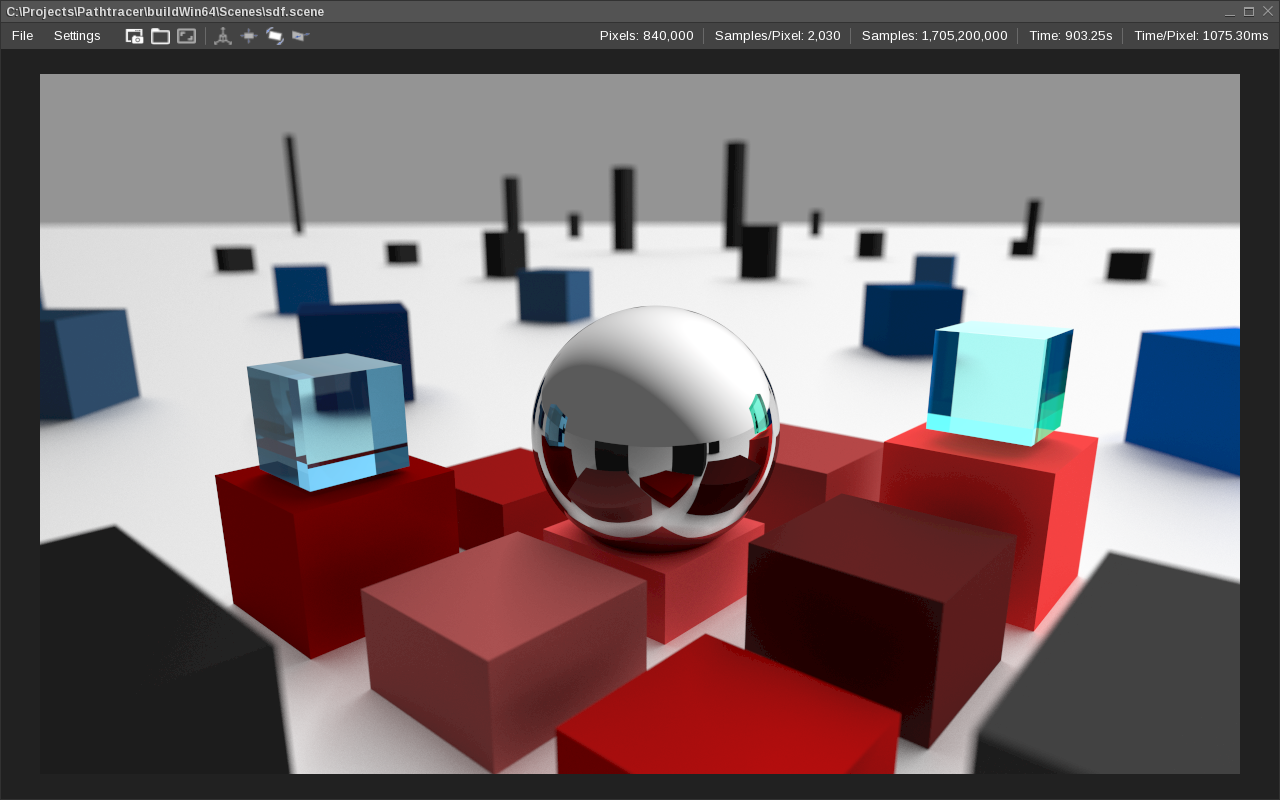
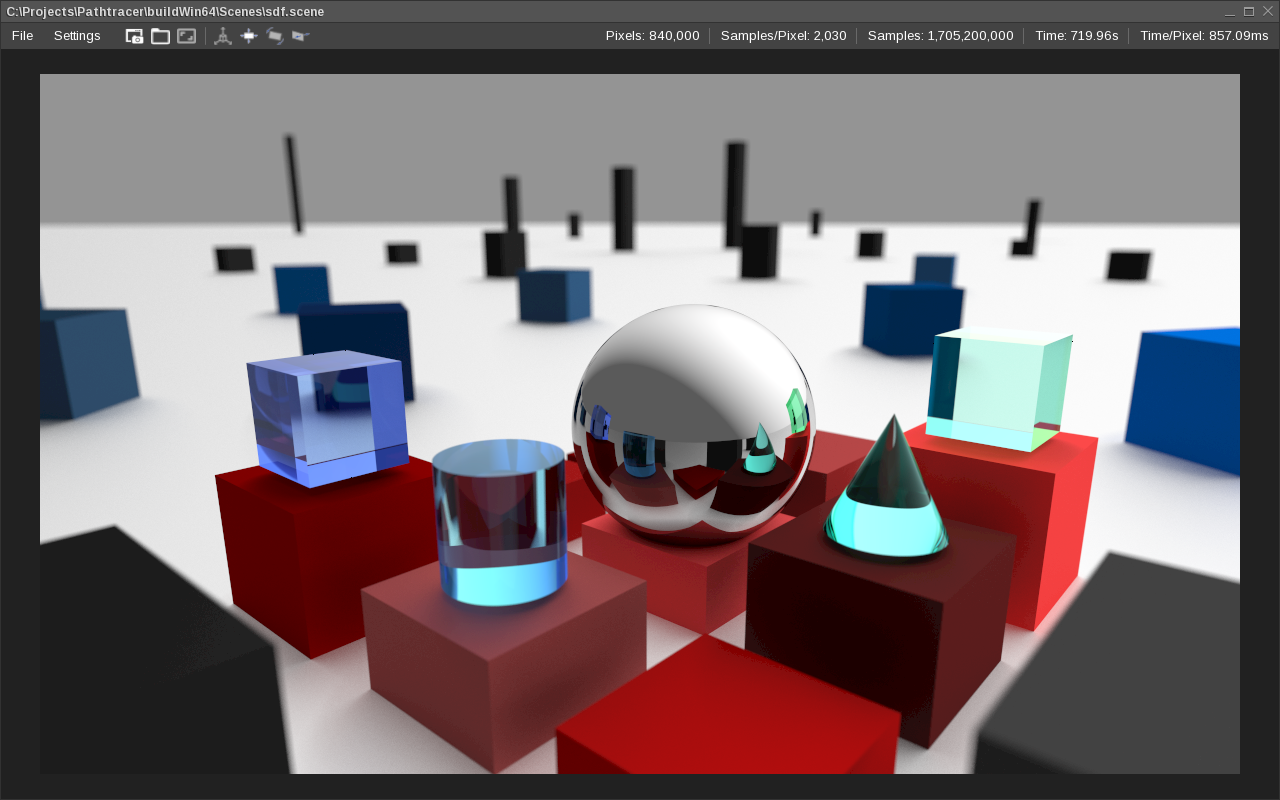
Update Pathtrader.

Changed region(s): [[0.1875, 0.375, 0.8438, 0.8438], [0.4688, 0.0312, 0.9688, 0.0625], [0.1875, 0.0312, 0.2188, 0.0625]]

diff --git a/index.md b/index.md
@@ -16,7 +16,7 @@ layout: default
 #### A path tracer with basic functionality.
 
 * Reflection, refraction, depth of field.
-* Two geometry types: ellipsoids and boxes.
+* Ellipsoids, boxes, cylinders and cones.
 * Edit entities.
 * Save/load scenes.
 * Save screenshots.
